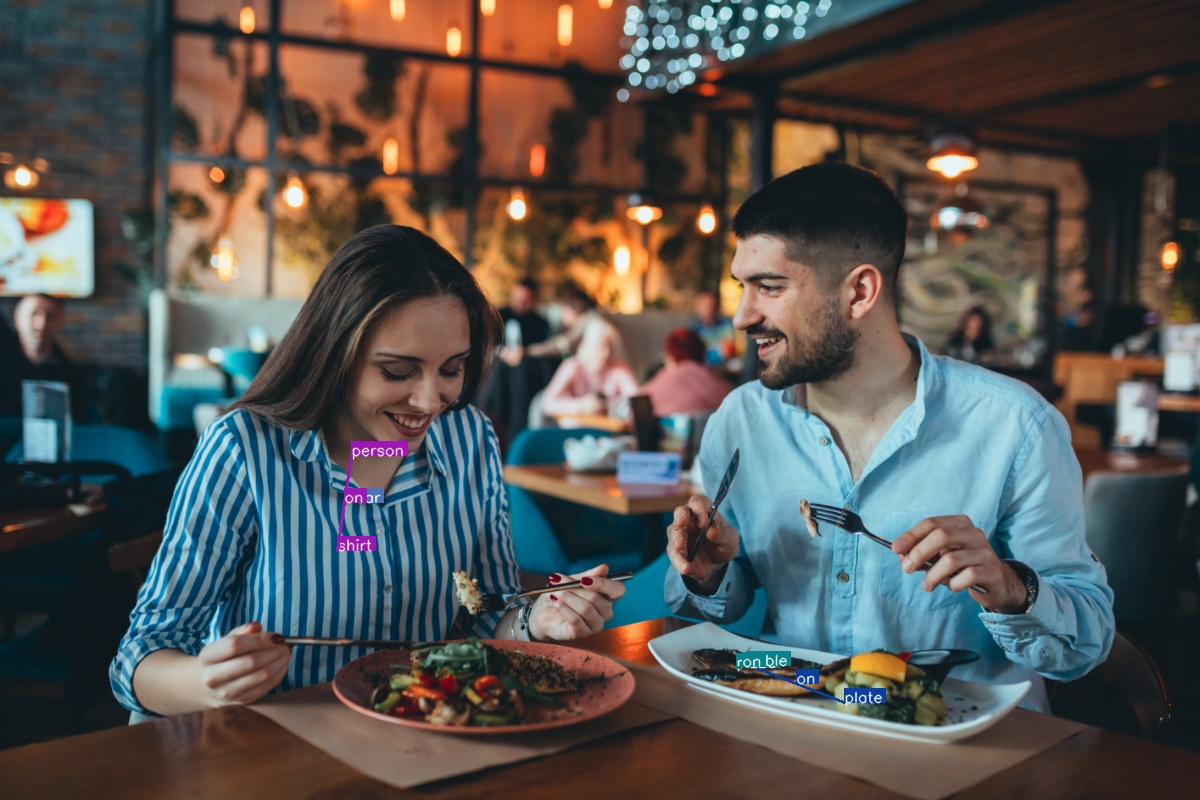
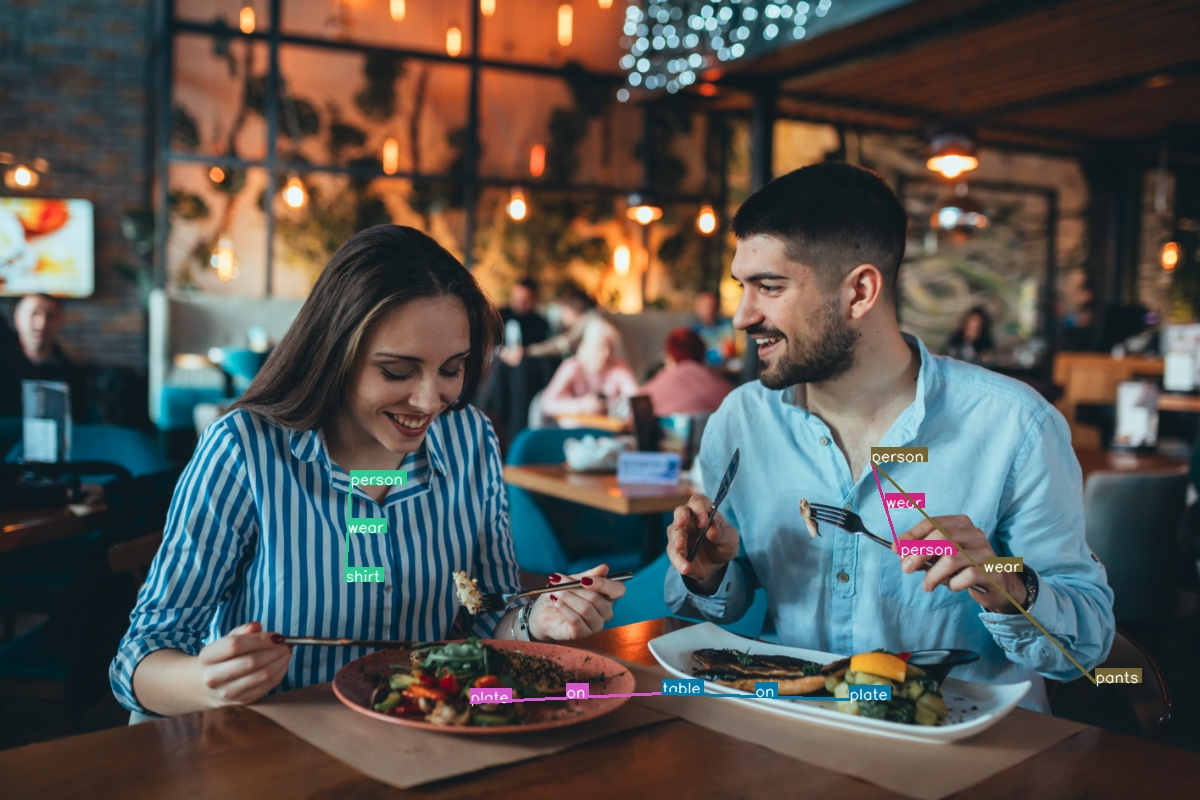
updated config

diff --git a/inference_batch.py b/inference_batch.py
@@ -66,51 +66,55 @@ faster_rcnn.eval()
 transform = transforms.Compose([
 			transforms.ToTensor()])
 
-im = Image.open(opt.image_path)
-img = np.array(im)
-draw = img.copy()
-draw_rlp = cv2.cvtColor(draw, cv2.COLOR_RGB2BGR)
-draw_objects = draw_rlp.copy()
-im = transform(im)
 
-with torch.no_grad():
-	detections, losses = faster_rcnn([im])
+for img_name in os.listdir(opt.images_dir):
+	opt.image_path = f"{opt.images_dir}/{img_name}"
+	print(opt.image_path)
+	im = Image.open(opt.image_path)
+	img = np.array(im)
+	draw = img.copy()
+	draw_rlp = cv2.cvtColor(draw, cv2.COLOR_RGB2BGR)
+	draw_objects = draw_rlp.copy()
+	im = transform(im)
 
-sbj_boxes = detections[0]['sbj_boxes']
-obj_boxes = detections[0]['obj_boxes']
-sbj_labels = detections[0]['sbj_labels']
-obj_labels = detections[0]['obj_labels']
-pred_labels = detections[0]['predicates']
-boxes = detections[0]['boxes']
-labels = detections[0]['labels']
-scores = detections[0]['scores']
+	with torch.no_grad():
+		detections, losses = faster_rcnn([im])
 
-for sbj_box, obj_box, sbj_label, obj_label, pred  \
-		in zip(sbj_boxes, obj_boxes, sbj_labels, obj_labels, pred_labels):
-	sbj = objects[sbj_label]
-	obj = objects[obj_label]
-	pred = predicates[pred]
-	print(sbj, pred, obj)
-	color = list(np.random.random(size=3) * 256)
-	font = cv2.FONT_HERSHEY_SIMPLEX
-	lineThickness = 1
-	font_size = 0.5
-	# write sbj and obj
-	centr_sub = (int((sbj_box[0].item() + sbj_box[2].item())/2),
-				 int((sbj_box[1].item() + sbj_box[3].item())/2))
-	centr_obj = (int((obj_box[0].item() + obj_box[2].item())/2),
-				 int((obj_box[1].item() + obj_box[3].item())/2))
-	set_text(draw_rlp, sbj,centr_sub)
-	set_text(draw_rlp, obj,centr_obj)
-	# draw line conencting sbj and obj
-	cv2.line(draw_rlp, centr_sub, centr_obj, color, thickness=2)
-	predicate_point = (
-		int((centr_sub[0] + centr_obj[0])/2), int((centr_sub[1] + centr_obj[1])/2))
-	set_text(draw_rlp, pred, predicate_point)
-path = f"./results/rel-{opt.image_path.split('/')[-1]}"
-cv2.imwrite(path, draw_rlp)
+	sbj_boxes = detections[0]['sbj_boxes']
+	obj_boxes = detections[0]['obj_boxes']
+	sbj_labels = detections[0]['sbj_labels']
+	obj_labels = detections[0]['obj_labels']
+	pred_labels = detections[0]['predicates']
+	# boxes = detections[0]['boxes']
+	# labels = detections[0]['labels']
+	# scores = detections[0]['scores']
 
-for bbox, label in zip(boxes, labels):
-	draw_objects = draw_boxes(draw_objects, bbox, label, _ind_to_class)
-path = f"./results/objs-{opt.image_path.split('/')[-1]}"
-cv2.imwrite(path, draw_objects)
+	for sbj_box, obj_box, sbj_label, obj_label, pred  \
+			in zip(sbj_boxes, obj_boxes, sbj_labels, obj_labels, pred_labels):
+		sbj = objects[sbj_label]
+		obj = objects[obj_label]
+		pred = predicates[pred]
+		print(sbj, pred, obj)
+		color = list(np.random.random(size=3) * 256)
+		font = cv2.FONT_HERSHEY_SIMPLEX
+		lineThickness = 1
+		font_size = 0.5
+		# write sbj and obj
+		centr_sub = (int((sbj_box[0].item() + sbj_box[2].item())/2),
+					int((sbj_box[1].item() + sbj_box[3].item())/2))
+		centr_obj = (int((obj_box[0].item() + obj_box[2].item())/2),
+					int((obj_box[1].item() + obj_box[3].item())/2))
+		set_text(draw_rlp, sbj,centr_sub)
+		set_text(draw_rlp, obj,centr_obj)
+		# draw line conencting sbj and obj
+		cv2.line(draw_rlp, centr_sub, centr_obj, color, thickness=2)
+		predicate_point = (
+			int((centr_sub[0] + centr_obj[0])/2), int((centr_sub[1] + centr_obj[1])/2))
+		set_text(draw_rlp, pred, predicate_point)
+	path = f"./results/rel-{opt.image_path.split('/')[-1]}"
+	cv2.imwrite(path, draw_rlp)
+
+	# for bbox, label in zip(boxes, labels):
+	# 	draw_objects = draw_boxes(draw_objects, bbox, label, _ind_to_class)
+	# path = f"./results/objs-{opt.image_path.split('/')[-1]}"
+	# cv2.imwrite(path, draw_objects)

diff --git a/config.py b/config.py
@@ -59,7 +59,7 @@ __C.TRAIN.MAX_ITER = 40000
 __C.TRAIN.MOMENTUM = 0.9
 
 # L2 regularization hyperparameter
-__C.TRAIN.WEIGHT_DECAY = 0.0005
+__C.TRAIN.WEIGHT_DECAY = 0.0001
 
 # Whether to double the learning rate for bias
 __C.TRAIN.DOUBLE_BIAS = True
@@ -126,7 +126,7 @@ __C.MODEL.BATCH_SIZE_PER_IMAGE_REL = 128
 
 __C.MODEL.POSITIVE_FRACTION_REL = 0.5
 
-__C.MODEL.NORM_SCALE = 3.0
+__C.MODEL.NORM_SCALE = 10.0
 
 
 #
@@ -159,7 +159,7 @@ __C.RPN.POSITIVE_FRACTION = 0.5
 #
 
 __C.TEST = AttrDict()
-__C.TEST.THRESHOLD = 0.5
+__C.TEST.THRESHOLD = 0.4
 
 
 #

diff --git a/opts.py b/opts.py
@@ -21,6 +21,8 @@ def parse_opts():
 						help='scheduler')
 	parser.add_argument('--begin_iter', type=int, default=1,
 						help='starting iteration')
+	parser.add_argument('--images_dir', type=str,
+						help='Directory of images')
 	# parser.add_argument('--multi_gpu', action='store_true', help='Enables multiple GPU training')
 	args = parser.parse_args()
 

diff --git a/train_large_scale.py b/train_large_scale.py
@@ -93,7 +93,7 @@ def save_model(model, optimizer, scheduler, step):
         'scheduler_state_dict': scheduler.state_dict()
     }
     torch.save(state, os.path.join(
-        'snapshots', f'large_scale_vrd_model.pth'))
+        'snapshots', f'large_scale_vrd_inter-{step}.pth'))
 
 
 def main_worker():
